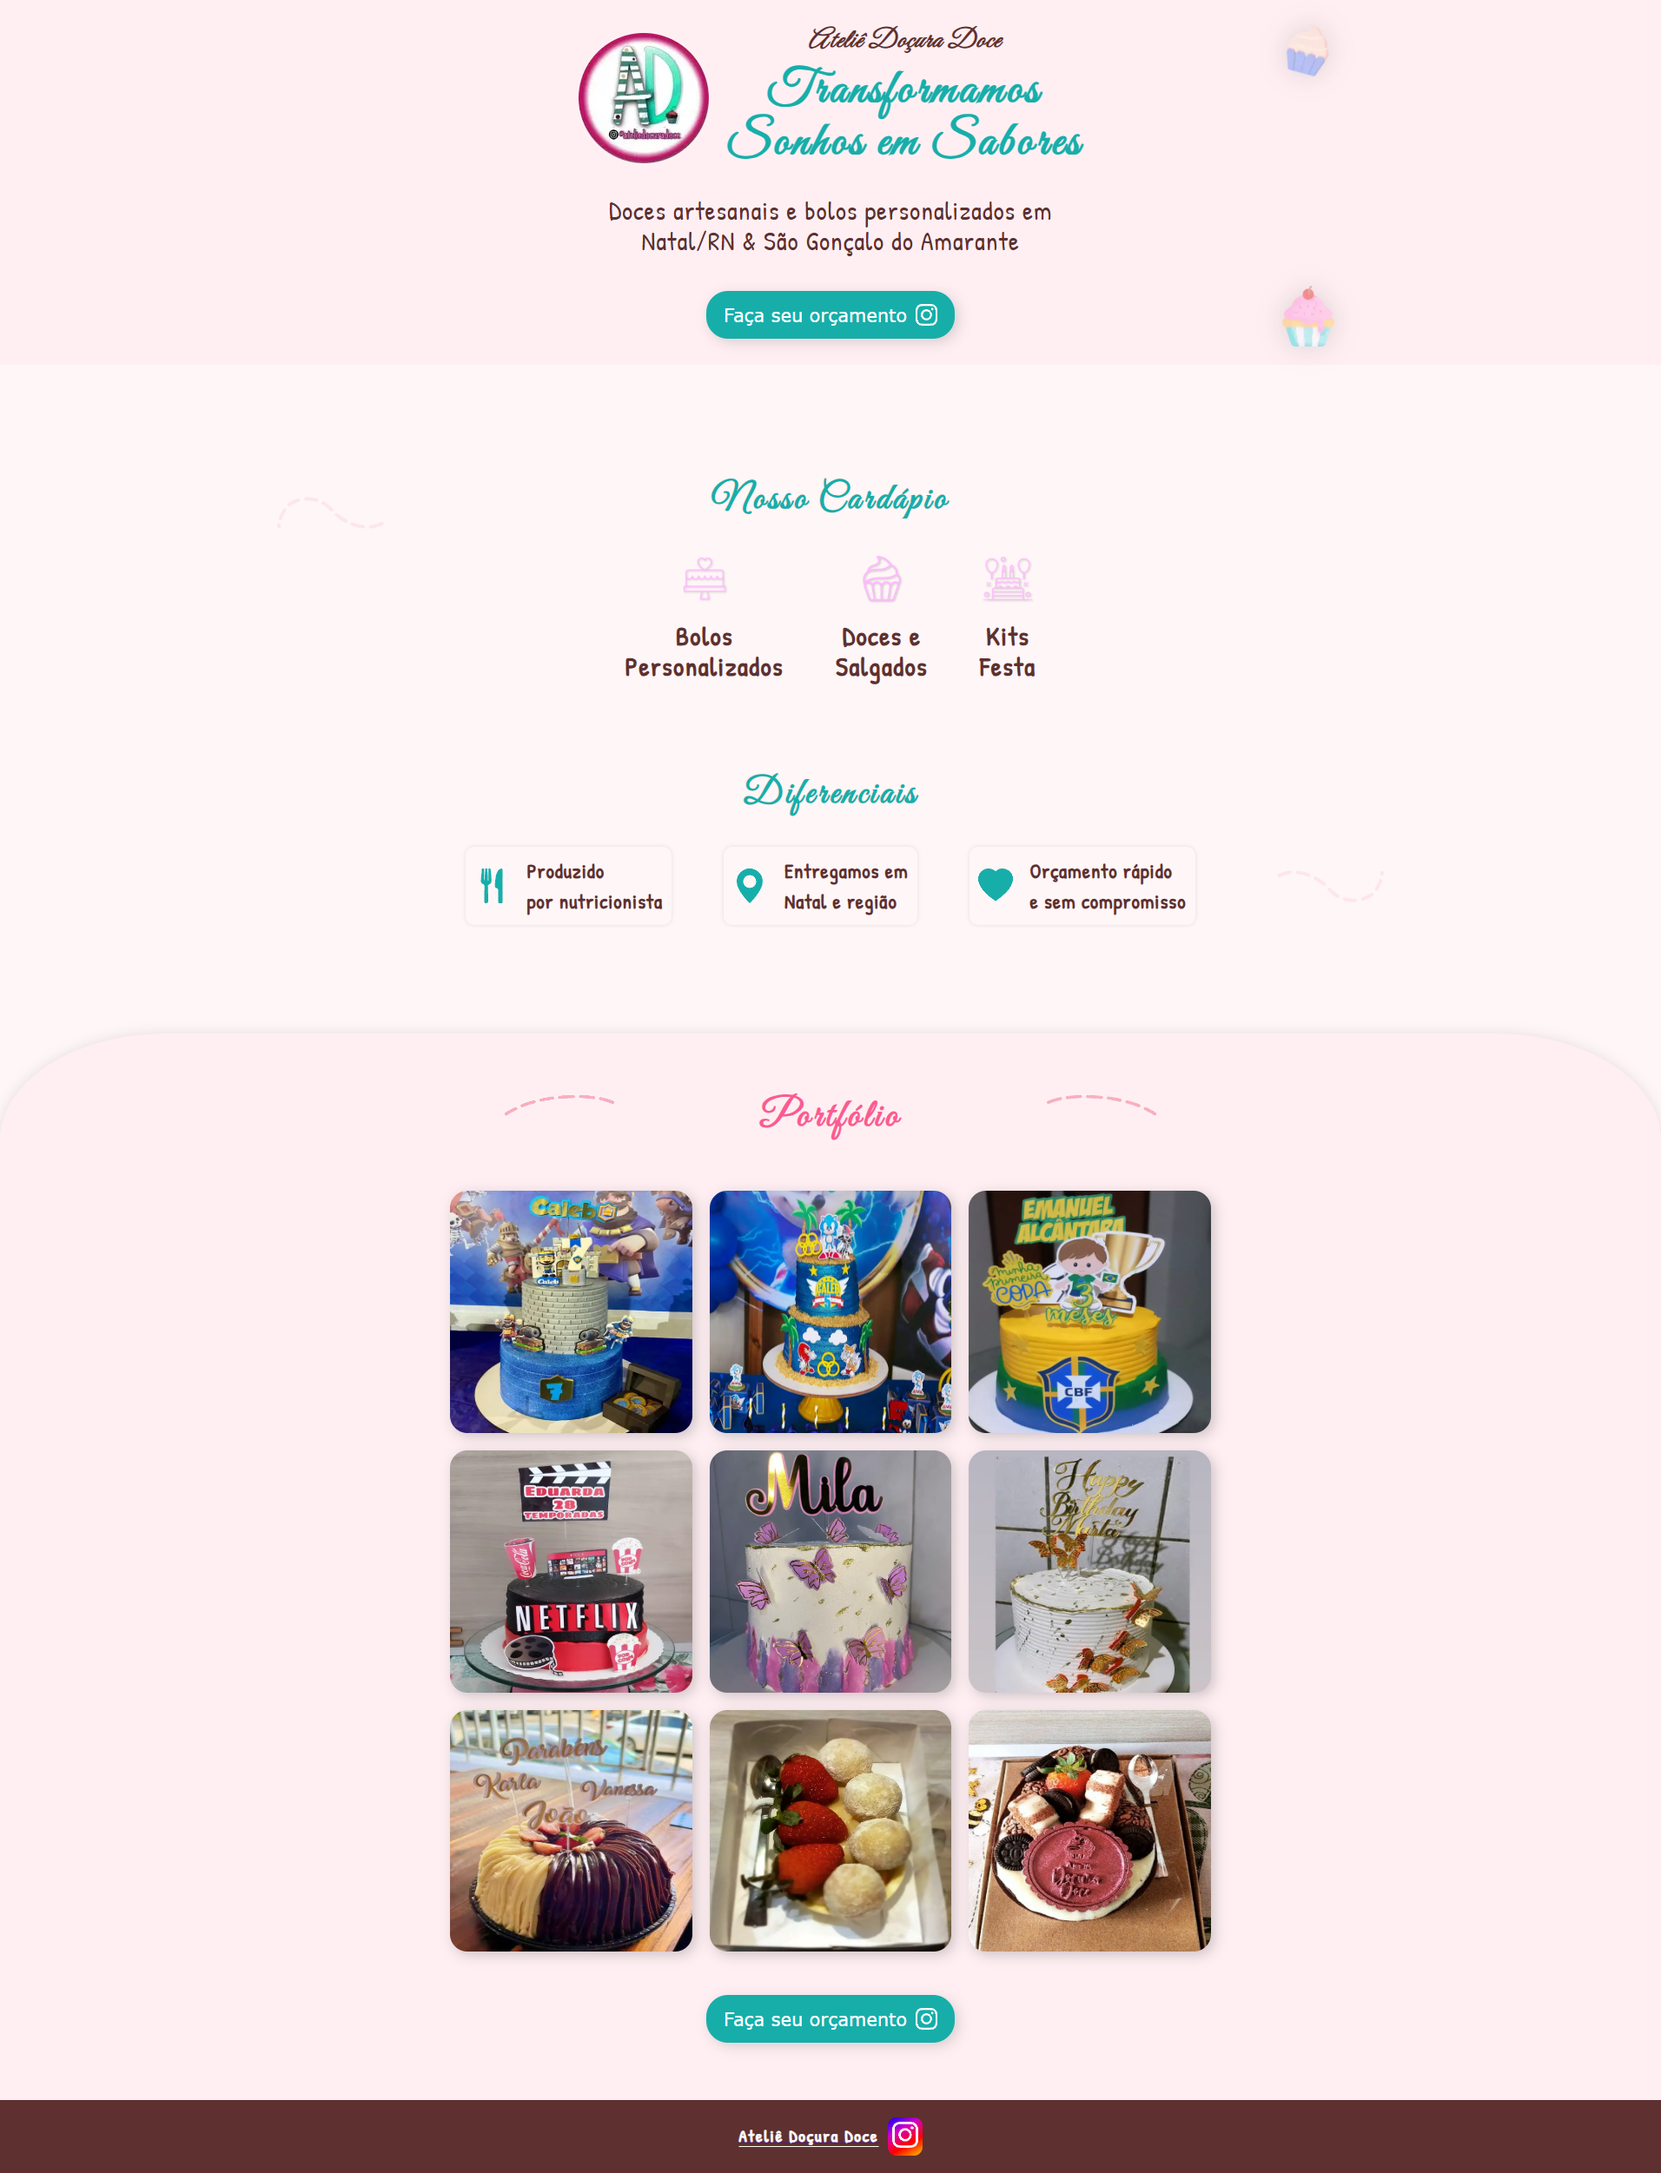
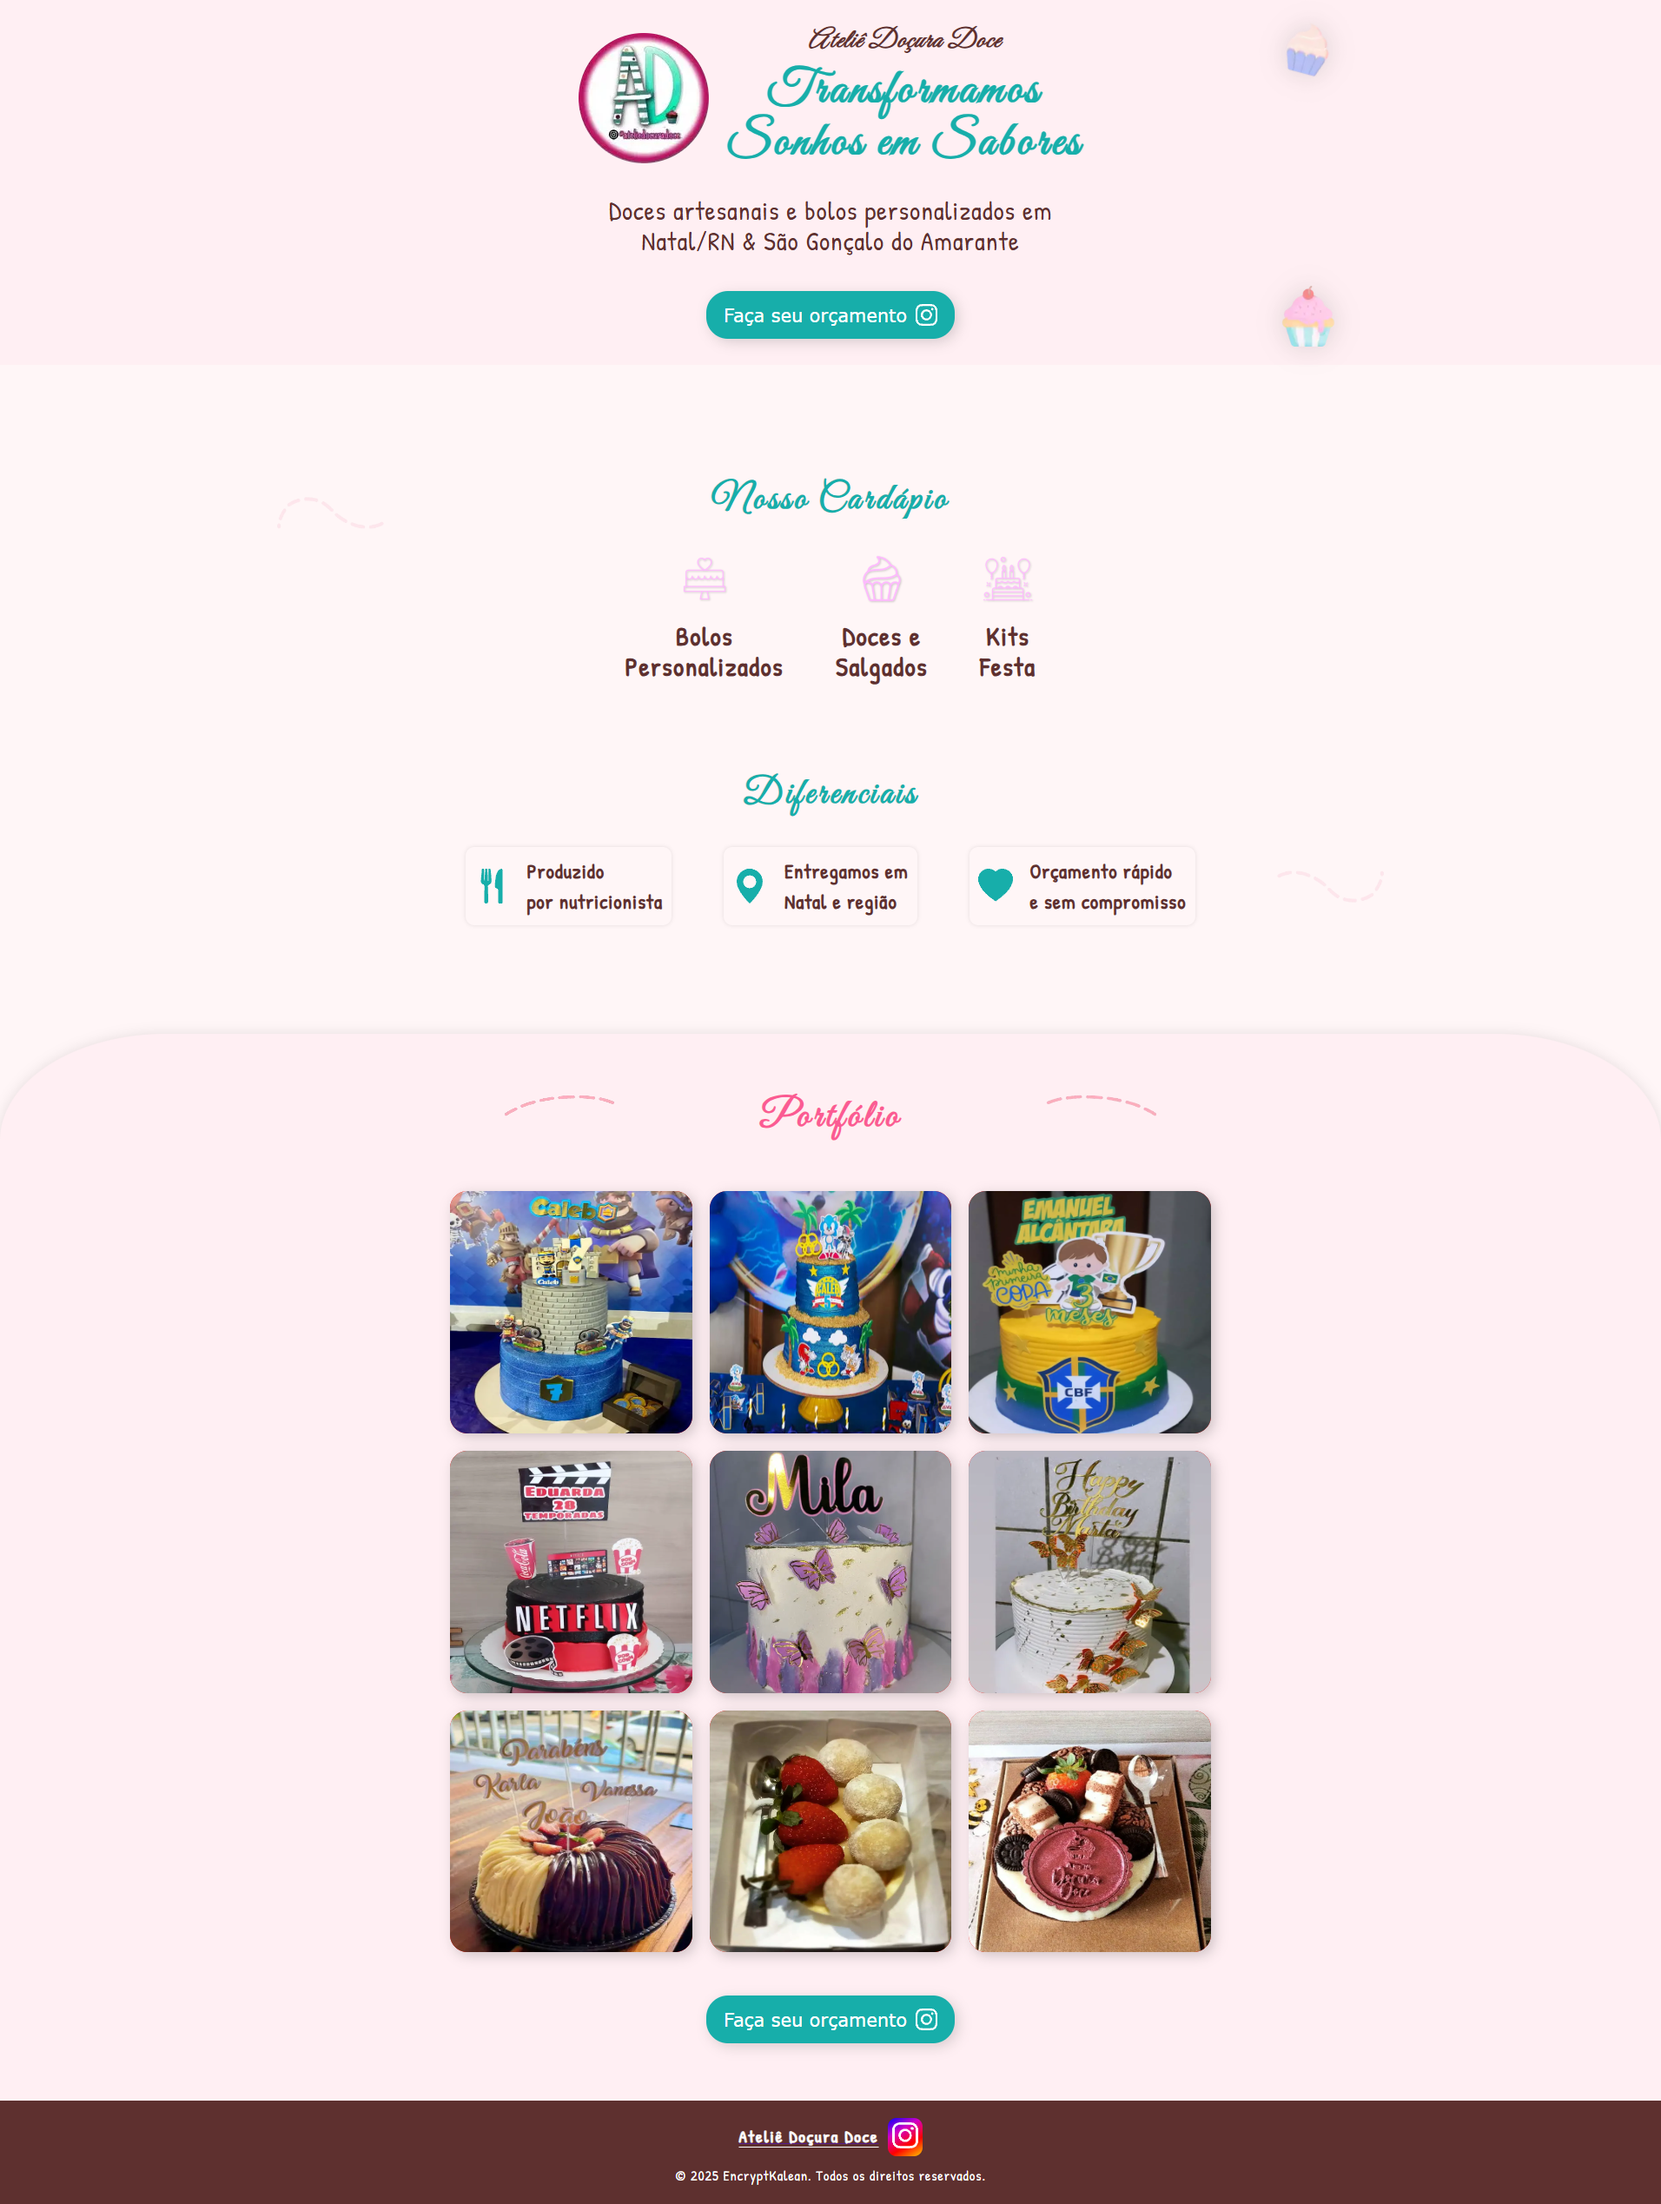
Add files via upload

diff --git a/README.md b/README.md
@@ -46,3 +46,10 @@ https://encryptkalean.github.io/atelie-docucura-doce/
 
 - Email: kauanle78@gmail.com
 - LinkedIn: https://www.linkedin.com/in/kauanleandro/
+
+---
+
+## 📄 Licença
+
+Este projeto é de uso exclusivo de EncryptKalean.
+Não é permitido uso ou reprodução sem autorização.
